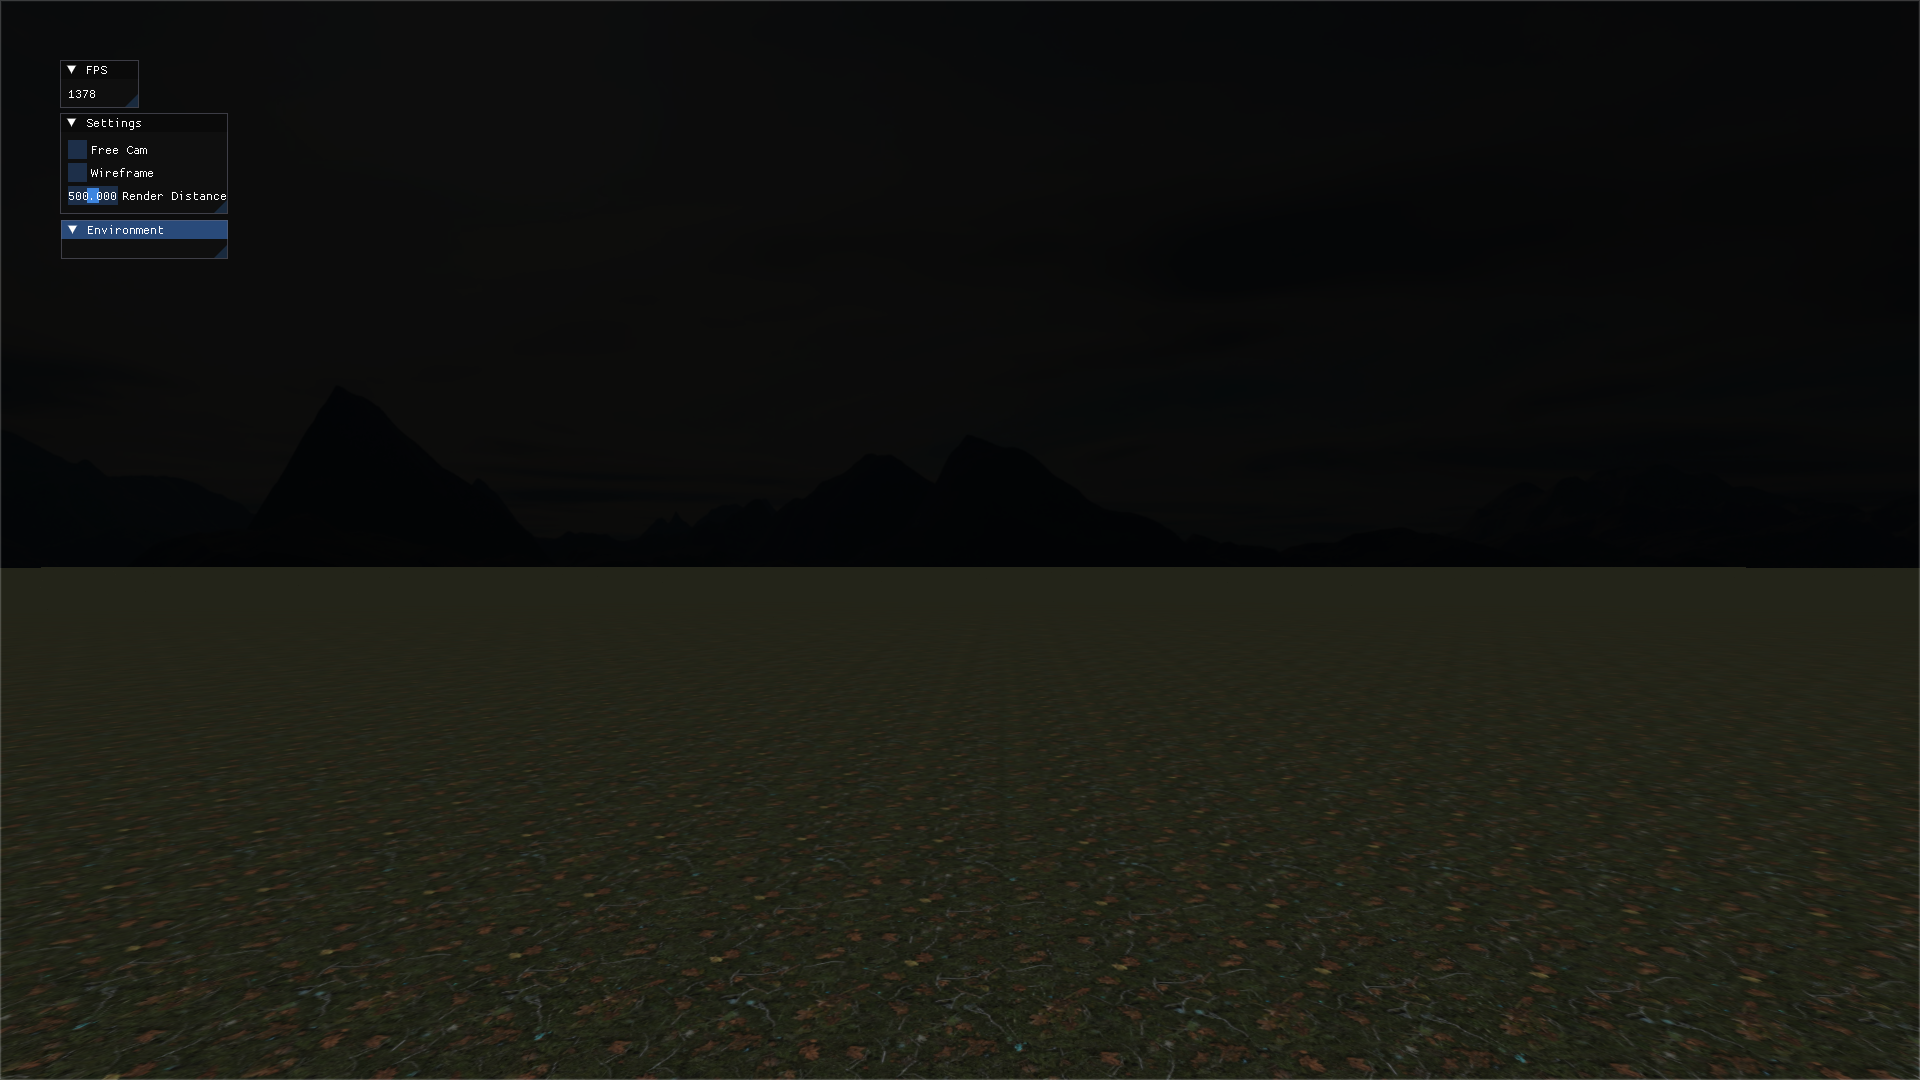
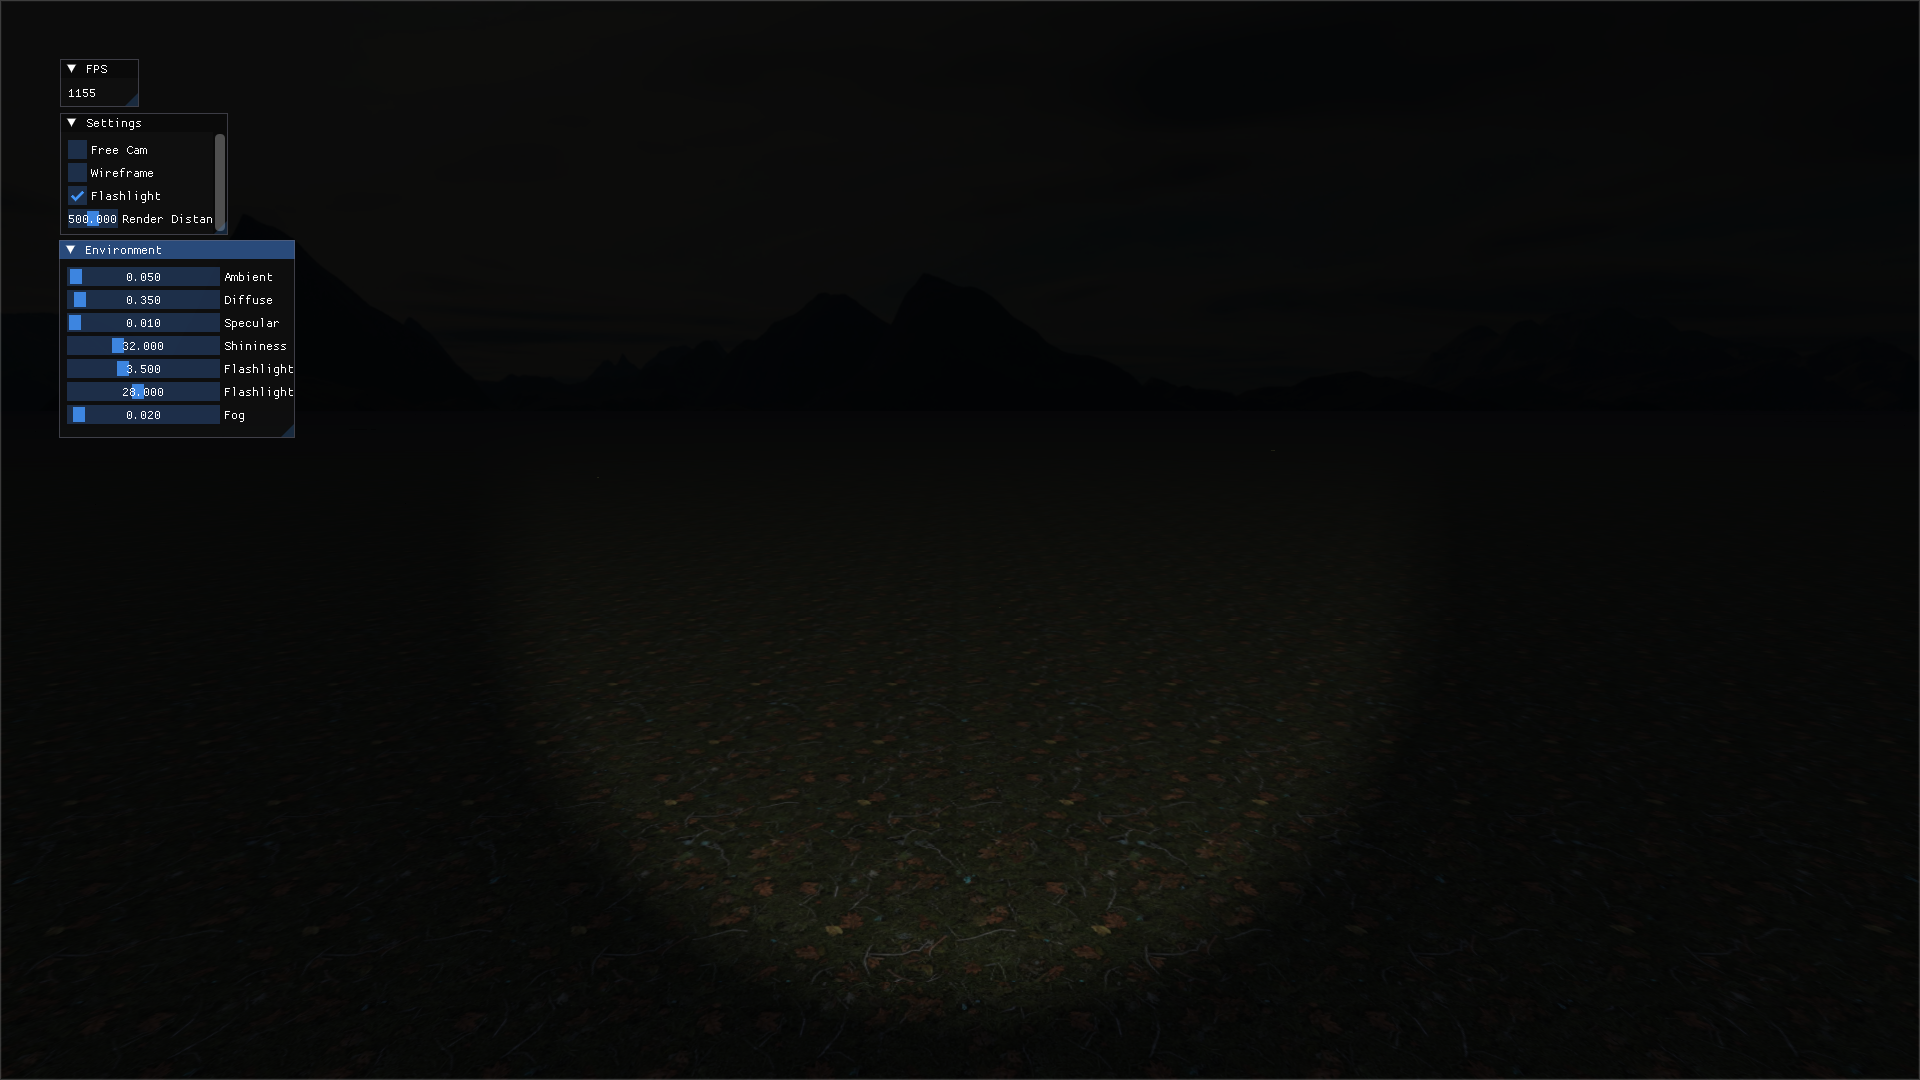
progress update

diff --git a/src/main.cpp b/src/main.cpp
@@ -42,9 +42,11 @@ float specularStrength = 0.010f;  // get rid of those circles on the floor
 float shininess = 32.0f;
 glm::vec3 moonDir(-0.2f, -1.0f, -0.3f);
 glm::vec3 moonColor(0.6f, 0.65f, 0.8f);
-float flashlightBrightness = 2.0f;
-float flashlightRadius = 18.0f;
+float flashlightBrightness = 3.5f;
+float flashlightRadius = 28.0f;
 glm::vec3 flashlightColor(1.0f, 0.95f, 0.85f);
+float fogDensity = 0.02f;
+glm::vec3 fogColor(0.02f, 0.02f, 0.03f);
 
 // toggle vars
 bool fullscreen = true;
@@ -223,6 +225,7 @@ int main() {
     ImGui::Begin("Settings");
     ImGui::Checkbox("Free Cam", &freeCam);
     ImGui::Checkbox("Wireframe", &wireframe);
+    ImGui::Checkbox("Flashlight", &camera.flashlightEnabled);
     ImGui::PushItemWidth(50);
     ImGui::SliderFloat("Render Distance", &renderDistance, 5.0f, 1000.0f);
     ImGui::PopItemWidth();
@@ -237,6 +240,7 @@ int main() {
                        10.0f);
     ImGui::SliderFloat("Flashlight Radius (deg)", &flashlightRadius, 1.0f,
                        60.0f);
+    ImGui::SliderFloat("Fog", &fogDensity, 0.005, 0.50);
     ImGui::End();
 
     // render
@@ -317,12 +321,17 @@ int main() {
                  glm::value_ptr(flashlightDir));
     glUniform3fv(glGetUniformLocation(ourShader.ID, "spotColor"), 1,
                  glm::value_ptr(flashlightColor));
+    float spotIntensity =  // for flashlight toggle
+        camera.flashlightEnabled ? flashlightBrightness : 0.0f;
     glUniform1f(glGetUniformLocation(ourShader.ID, "spotIntensity"),
-                flashlightBrightness);
+                spotIntensity);
     glUniform1f(glGetUniformLocation(ourShader.ID, "spotInnerCutoff"),
                 flashlightInnerCutoff);
     glUniform1f(glGetUniformLocation(ourShader.ID, "spotOuterCutoff"),
                 flashlightOuterCutoff);
+    glUniform3fv(glGetUniformLocation(ourShader.ID, "fogColor"), 1,
+                 glm::value_ptr(fogColor));
+    glUniform1f(glGetUniformLocation(ourShader.ID, "fogDensity"), fogDensity);
 
     int modelLoc = glGetUniformLocation(ourShader.ID, "model");
     glUniformMatrix4fv(modelLoc, 1, GL_FALSE, glm::value_ptr(model));

diff --git a/src/camera.cpp b/src/camera.cpp
@@ -27,6 +27,7 @@ Camera::Camera() {
 
   // for ungrabbing mouse with ´q´
   mouseDisabled = true;
+  flashlightEnabled = false;
 
   // bobbing settings
   bobbingAmount = 0.03f;
@@ -93,6 +94,17 @@ void Camera::ProcessKeyboard(GLFWwindow* window, float deltaTime,
     qWasDown = true;
   } else {
     qWasDown = false;
+  }
+
+  // toggle flashlight
+  static bool fWasDown = false;
+  if (glfwGetKey(window, GLFW_KEY_F) == GLFW_PRESS) {
+    if (!fWasDown) {
+      flashlightEnabled = !flashlightEnabled;
+    }
+    fWasDown = true;
+  } else {
+    fWasDown = false;
   }
 
   // Jump

diff --git a/include/camera.hpp b/include/camera.hpp
@@ -34,6 +34,7 @@ class Camera {
 
   // for ungrabbing mouse with ´q´
   bool mouseDisabled;
+  bool flashlightEnabled;
 
   void AttachToWindow(GLFWwindow* window, float screenX, float screenY);
   void ProcessKeyboard(GLFWwindow* window, float deltaTime, bool freeCam);

diff --git a/README.md b/README.md
@@ -11,20 +11,18 @@ The Forest will be dark, filled with trees and a heavy layer of fog.
 Abandoned buildings and other interesting models will be scattered throughout the forest.
 
 ## Current State - Progress
-Right now its just a **test World with a flat floor, skybox and movement.**
-
 ![Showcase](images/showcase.png)
 
 ## How to Build
-You can build simply via the nop.cpp (nobuild).
+You can build simply via the nob.cpp (nobuild).
 Its a more simpler approach than having a dedicated build File.
 
 Just Run
 ```
-clang++ nop.cpp -o nop
+clang++ nob.cpp -o nob
 ```
 and then
 ```
-./nop     # to build game
-./nop run # to build and run
+./nob     # to build game
+./nob run # to build and run
 ```
